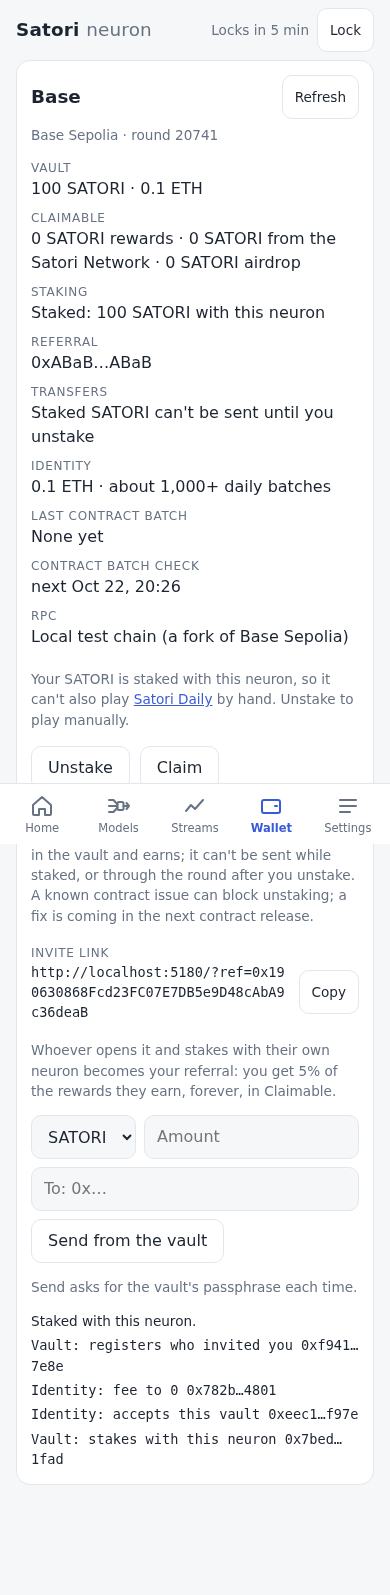
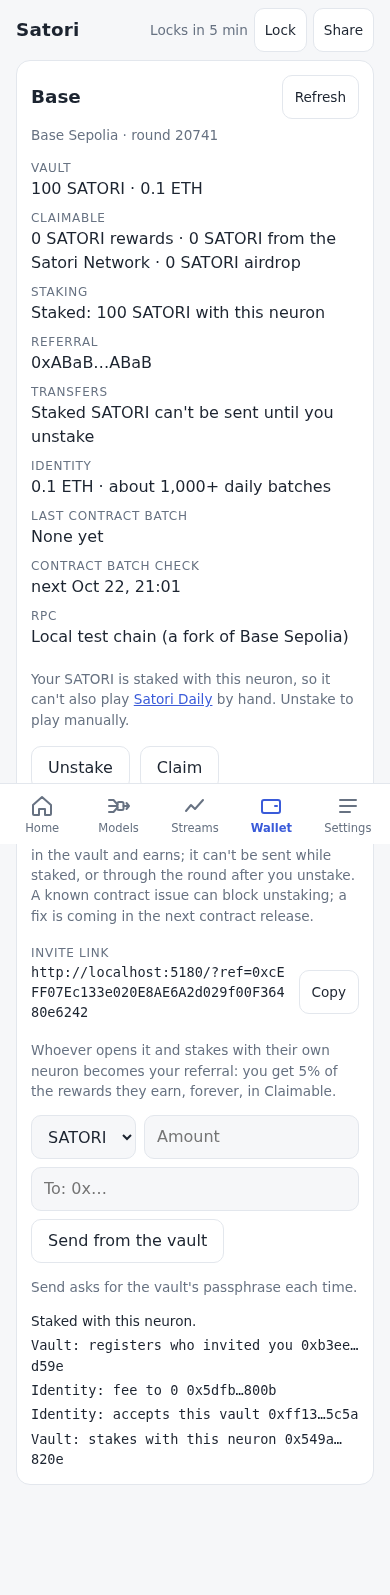
Share: a header button (top right) sends the neuron's invite link to the device's share sheet, or copies it; on a phone the title drops 'neuron' so Lock and Share fit

diff --git a/src/neuron/referral.test.js b/src/neuron/referral.test.js
@@ -1,5 +1,5 @@
-import { describe, expect, test } from 'vitest';
-import { inviteLink, referrerOf } from './referral.js';
+import { describe, expect, test, vi } from 'vitest';
+import { inviteLink, referrerOf, shareLink } from './referral.js';
 
 const A = '0x' + 'ab'.repeat(20);
 
@@ -28,5 +28,32 @@ describe('inviteLink', () => {
   test('none without an origin or a vault', () => {
     expect(inviteLink('', A)).toBe('');
     expect(inviteLink('https://x.io', '')).toBe('');
+  });
+});
+
+describe('shareLink: the device\'s share sheet, else copied', () => {
+  const clipboard = () => ({ writeText: vi.fn(async () => {}) });
+  test('the share sheet when there is one', async () => {
+    const nav = { share: vi.fn(async () => {}), clipboard: clipboard() };
+    expect(await shareLink(A, nav)).toBe('shared');
+    expect(nav.share).toHaveBeenCalledWith({ title: 'Satori neuron', url: A });
+    expect(nav.clipboard.writeText).not.toHaveBeenCalled();
+  });
+  test('a sheet closed with no choice is not an error and copies nothing', async () => {
+    const nav = { share: vi.fn(async () => { throw new DOMException('closed', 'AbortError'); }), clipboard: clipboard() };
+    expect(await shareLink(A, nav)).toBe('cancelled');
+    expect(nav.clipboard.writeText).not.toHaveBeenCalled();
+  });
+  test('no share sheet (a computer), or one that fails: copied', async () => {
+    const plain = { clipboard: clipboard() };
+    expect(await shareLink(A, plain)).toBe('copied');
+    expect(plain.clipboard.writeText).toHaveBeenCalledWith(A);
+    const broken = { share: vi.fn(async () => { throw new Error('NotAllowedError'); }), clipboard: clipboard() };
+    expect(await shareLink(A, broken)).toBe('copied');
+  });
+  test('nothing to share with, or nowhere to copy: none', async () => {
+    expect(await shareLink('', { clipboard: clipboard() })).toBeNull();
+    expect(await shareLink(A, {})).toBeNull();
+    expect(await shareLink(A, { clipboard: { writeText: async () => { throw new Error('denied'); } } })).toBeNull();
   });
 });

diff --git a/src/main.js b/src/main.js
@@ -30,7 +30,7 @@ import { backfillHistory } from './neuron/history.js';
 import { createNostr } from './neuron/nostr.js';
 import { relayUuid } from './nostr/satori.js';
 import { createBase, checkSend, NEED_GAS } from './neuron/base.js';
-import { referrerOf } from './neuron/referral.js';
+import { referrerOf, shareLink } from './neuron/referral.js';
 import { createReward } from './neuron/reward.js';
 import { createActivity } from './neuron/activity.js';
 import { healthOf, toneOf, CHIP_OF } from './neuron/health.js';
@@ -849,6 +849,12 @@ const actions = {
       state.copied = key;
       setTimeout(() => (state.copied = ''), 1500);
     } catch { /* clipboard not allowed */ }
+  },
+  /** Share: the invite link (docs/design/base.md#referral-invite-links) to the device's share sheet, else copied. */
+  async share() {
+    if (await shareLink(state.base.inviteLink) !== 'copied') return;
+    state.copied = 'share';
+    setTimeout(() => (state.copied = ''), 1500);
   },
   pollNow: () => pollNow().catch((err) => console.error('[satori] poll', err)),
   install: () => install().catch((err) => console.warn('[satori] install', err)),

diff --git a/e2e/referral.spec.js b/e2e/referral.spec.js
@@ -33,6 +33,16 @@ test('an invite link: held on the visit, registered by the vault at Stake; the n
   await expect(fact(page, 'referral-note')).toContainText('Staking registers them as your referral');
   await expect(fact(page, 'invite')).toHaveText(base.inviteLink);
 
+  // Share, top right: the invite link to the device's share sheet (a stub here), else copied
+  await page.evaluate(() => { window.__shared = []; navigator.share = async (d) => void window.__shared.push(d); });
+  await page.locator('[data-test=share]').click();
+  expect(await page.evaluate(() => window.__shared)).toEqual([{ title: 'Satori neuron', url: base.inviteLink }]);
+  await page.evaluate(() => { navigator.share = undefined; });
+  await context.grantPermissions(['clipboard-read', 'clipboard-write']);
+  await page.locator('[data-test=share]').click();
+  await expect(page.locator('[data-test=share]')).toHaveText('Link copied');
+  expect(await page.evaluate(() => navigator.clipboard.readText())).toBe(base.inviteLink);
+
   rpc.eth[I] = 10n ** 17n;
   rpc.eth[V] = 10n ** 17n;
   s.balance[V] = 100n * E18;

diff --git a/src/neuron/referral.js b/src/neuron/referral.js
@@ -9,3 +9,25 @@ export function referrerOf(search) {
 
 /** The link that makes whoever opens it this vault's referral. */
 export const inviteLink = (origin, vault) => (origin && vault ? `${origin}/?ref=${vault}` : '');
+
+/**
+ * Share a link: the device's share sheet when it has one, else copied. → 'shared' | 'cancelled' (the sheet closed with
+ * no choice) | 'copied' | null (nothing to share, or no way to copy)
+ */
+export async function shareLink(link, nav = globalThis.navigator) {
+  if (!link) return null;
+  if (nav?.share) {
+    try {
+      await nav.share({ title: 'Satori neuron', url: link });
+      return 'shared';
+    } catch (err) {
+      if (err?.name === 'AbortError') return 'cancelled';
+    }
+  }
+  try {
+    await nav.clipboard.writeText(link);
+    return 'copied';
+  } catch {
+    return null;
+  }
+}

diff --git a/src/ui/view.js b/src/ui/view.js
@@ -144,6 +144,7 @@ export function render(root, a) {
       <button class="small-btn" data-test="update" hidden="${() => !state.app.update}" @click="${a.update}">Update ready, reload</button>
       <span class="muted small lock-in" data-test="lock-in" hidden="${() => state.screen !== 'home' || !state.unlocked}">${() => lockInText(state.lockAt, state.lockNow)}</span>
       <button class="small-btn" data-test="lock" hidden="${() => state.screen !== 'home' || !state.unlocked}" @click="${a.lock}">Lock</button>
+      <button class="small-btn" data-test="share" hidden="${() => state.screen !== 'home' || !state.base.inviteLink}" @click="${a.share}">${() => (state.copied === 'share' ? 'Link copied' : 'Share')}</button>
     </div>
   </header>
   <main>

diff --git a/src/style.css b/src/style.css
@@ -84,7 +84,10 @@ code.block { display: block; margin-top: 8px; padding: 8px 10px; background: var
 
 /* ── the header and the tabs ── */
 .top { display: flex; align-items: center; justify-content: space-between; gap: 12px; min-height: 60px; padding: 8px 0; }
-.top-actions { display: flex; gap: 8px; align-items: center; }
+.top h1 { white-space: nowrap; }
+@media (max-width: 420px) { .top h1 .muted { display: none; } } /* a phone: Lock and Share need the room */
+.top-actions { display: flex; gap: 6px; align-items: center; }
+.top-actions .small-btn { padding: 6px 10px; }
 .lock-in { white-space: nowrap; }
 .topnav { display: none; gap: 4px; margin-left: auto; }
 .topnav a, .tabbar a { text-decoration: none; color: var(--muted); }

diff --git a/docs/design/base.md b/docs/design/base.md
@@ -182,7 +182,9 @@ registers it, as part of Stake.
   (the dapp's referral is likewise for a new user's first prediction).
 - **Invite.** `<this origin>/?ref=<the vault's Base address>`: the referrer is
   paid into `unclaimedRewards[vault]`, which Claim already collects. The
-  Wallet tab shows the link with a Copy button.
+  Wallet tab shows the link with a Copy button, and the header's **Share**
+  (top right, on every tab once the neuron runs) sends it to the device's share
+  sheet, or copies it where there is none (a computer without one).
 - **Said before it happens.** The Wallet tab's Referral fact reads "Invited by
   0x… (set when you stake)" while one is held, the address once set, else "None".
 - **Not built:** the dapp's earnings and "You've referred" lists, which read an
